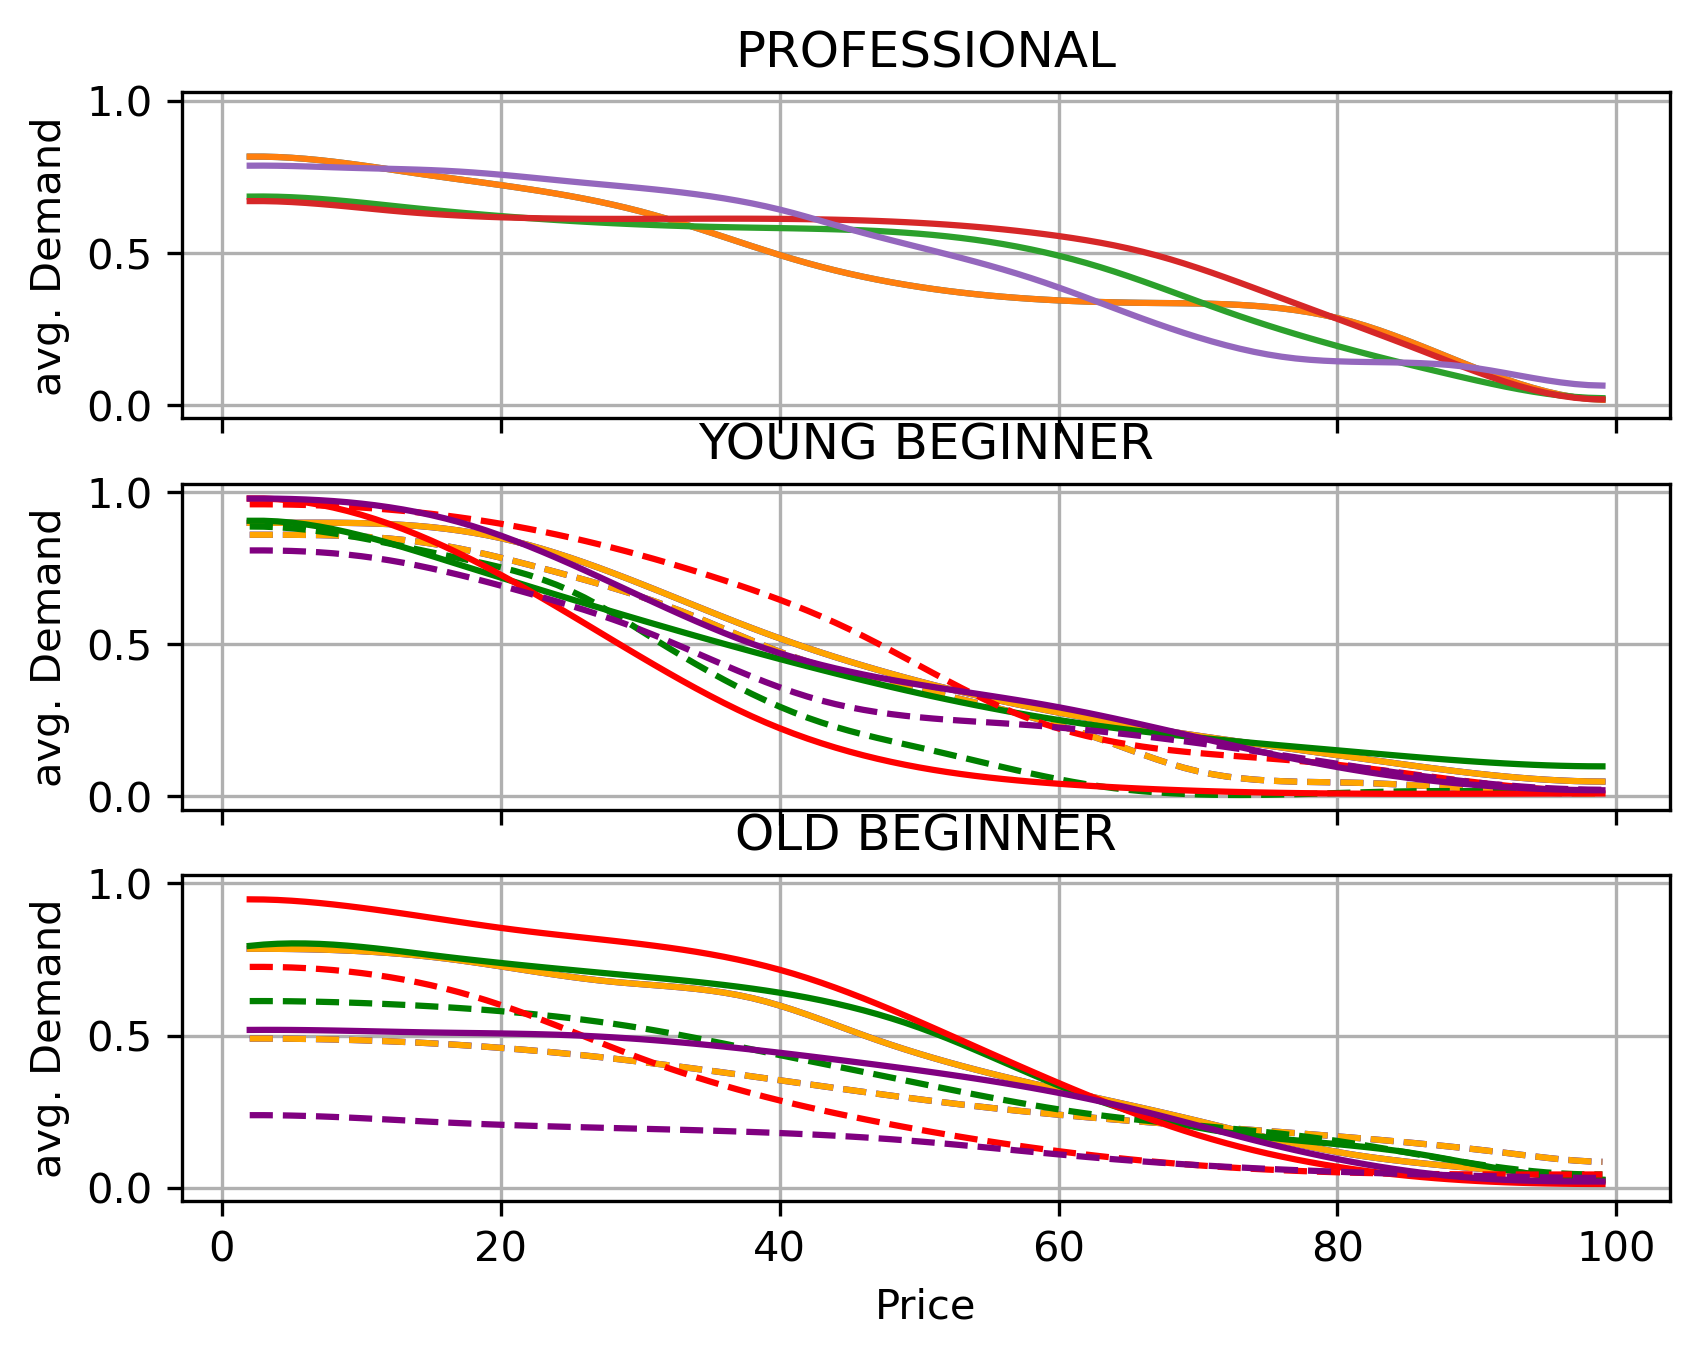
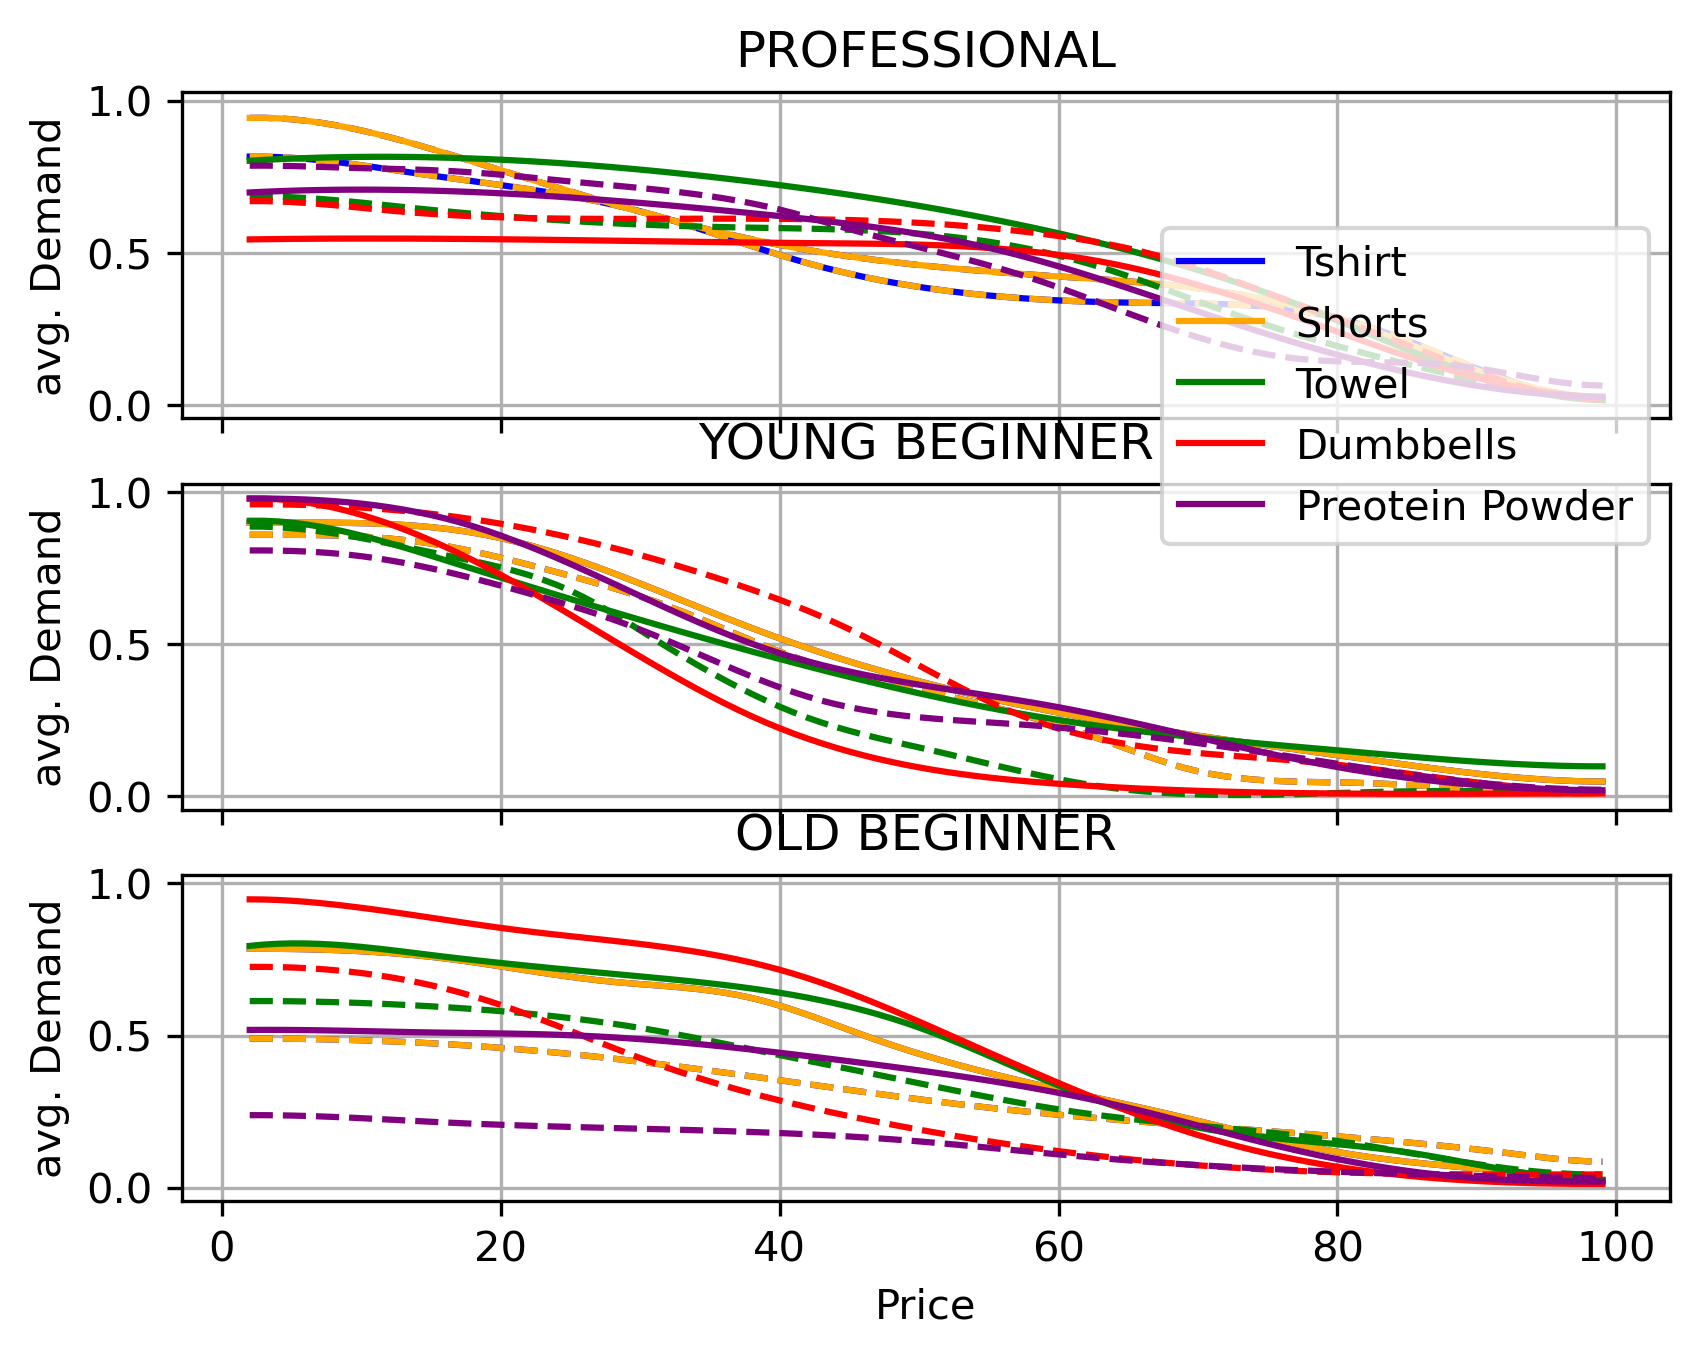
Added remaining demand curves

Changed region(s): [[0.1247, 0.0619, 0.9665, 0.4024], [0.9353, 0.1548, 0.9665, 0.2167]]

diff --git a/1 - Learning for Dynamic Pricing/DemandCurves/AbruptCurves/FunctionPlotter.py b/1 - Learning for Dynamic Pricing/DemandCurves/AbruptCurves/FunctionPlotter.py
@@ -2,6 +2,7 @@
 This is a script that plots the demand curves of the three user classes for all four poducts.
 """
 
+from turtle import color
 import matplotlib.pyplot as plt
 import numpy as np
 import sys
@@ -214,11 +215,23 @@ axs[1].set_ylabel('avg. Demand')
 axs[1].grid(True)
 plt.xlabel('Price')
 
-#PRO
+####################
+#               PRO                  #
+####################
 data = np.load('./AC_PROFESSIONAL_0.npy')
 x = data[:, 0]
 y = data[:, 1]
-axs[0].plot(x, y,  label='Tshirt')
+axs[0].plot(x, y, color='blue')
+#axs[0].legend(loc='center left', bbox_to_anchor=(1, 2.5))
+axs[0].set_title('PROFESSIONAL')
+axs[0].set_ylabel('avg. Demand')
+axs[0].grid(True)
+plt.xlabel('Price')
+
+data = np.load('./PROFESSIONAL_0.npy')
+x = data[:, 0]
+y = data[:, 1]
+axs[0].plot(x, y, linestyle='--', color='blue', label='Tshirt')
 #axs[0].legend(loc='center left', bbox_to_anchor=(1, 2.5))
 axs[0].set_title('PROFESSIONAL')
 axs[0].set_ylabel('avg. Demand')
@@ -229,7 +242,17 @@ plt.xlabel('Price')
 data = np.load('./AC_PROFESSIONAL_1.npy')
 x = data[:, 0]
 y = data[:, 1]
-axs[0].plot(x, y, label='Shorts')
+axs[0].plot(x, y, linestyle='--', color='orange')
+#axs[0].legend(loc='center left', bbox_to_anchor=(1, 2.5))
+axs[0].set_title('PROFESSIONAL')
+axs[0].set_ylabel('avg. Demand')
+axs[0].grid(True)
+plt.xlabel('Price')
+
+data = np.load('./PROFESSIONAL_1.npy')
+x = data[:, 0]
+y = data[:, 1]
+axs[0].plot(x, y, color = 'orange', label='Shorts')
 #axs[0].legend(loc='center left', bbox_to_anchor=(1, 2.5))
 axs[0].set_title('PROFESSIONAL')
 axs[0].set_ylabel('avg. Demand')
@@ -239,7 +262,17 @@ plt.xlabel('Price')
 data = np.load('./AC_PROFESSIONAL_2.npy')
 x = data[:, 0]
 y = data[:, 1]
-axs[0].plot(x, y, label='Twoel')
+axs[0].plot(x, y, linestyle='--', color='green')
+#axs[0].legend(loc='center left', bbox_to_anchor=(1, 2.5))
+axs[0].set_title('PROFESSIONAL')
+axs[0].set_ylabel('avg. Demand')
+axs[0].grid(True)
+plt.xlabel('Price')
+
+data = np.load('./PROFESSIONAL_2.npy')
+x = data[:, 0]
+y = data[:, 1]
+axs[0].plot(x, y, color = 'green', label='Twoel')
 #axs[0].legend(loc='center left', bbox_to_anchor=(1, 2.5))
 axs[0].set_title('PROFESSIONAL')
 axs[0].set_ylabel('avg. Demand')
@@ -249,17 +282,38 @@ plt.xlabel('Price')
 data = np.load('./AC_PROFESSIONAL_3.npy')
 x = data[:, 0]
 y = data[:, 1]
-axs[0].plot(x, y, label='Dumbbells')
+axs[0].plot(x, y, linestyle='--', color='red')
 #axs[0].legend(loc='center left', bbox_to_anchor=(1, 2.5))
 axs[0].set_title('PROFESSIONAL')
 axs[0].set_ylabel('avg. Demand')
 axs[0].grid(True)
 plt.xlabel('Price')
 
+data = np.load('./PROFESSIONAL_3.npy')
+x = data[:, 0]
+y = data[:, 1]
+axs[0].plot(x, y, color='red', label='Dumbbells')
+#axs[0].legend(loc='center left', bbox_to_anchor=(1, 2.5))
+axs[0].set_title('PROFESSIONAL')
+axs[0].set_ylabel('avg. Demand')
+axs[0].grid(True)
+plt.xlabel('Price')
+
+
 data = np.load('./AC_PROFESSIONAL_4.npy')
 x = data[:, 0]
 y = data[:, 1]
-axs[0].plot(x, y, label='Preotein Powder')
+axs[0].plot(x, y, linestyle='--', color='purple')
+#axs[0].legend(loc='center left', bbox_to_anchor=(1, 2.5))
+axs[0].set_title('PROFESSIONAL')
+axs[0].set_ylabel('avg. Demand')
+axs[0].grid(True)
+plt.xlabel('Price') 
+
+data = np.load('./PROFESSIONAL_4.npy')
+x = data[:, 0]
+y = data[:, 1]
+axs[0].plot(x, y, color='purple', label='Preotein Powder')
 #axs[0].legend(loc='center left', bbox_to_anchor=(1, 2.5))
 axs[0].set_title('PROFESSIONAL')
 axs[0].set_ylabel('avg. Demand')
@@ -269,6 +323,6 @@ plt.xlabel('Price')
 
 #SHOW AND SAVE
 #Plot legend ounder the plot
-#plt.legend(loc='right', bbox_to_anchor=(1, 2.5))
+plt.legend(loc='right', bbox_to_anchor=(1, 2.5))
 plt.savefig('DemandCurves.png', bbox_inches="tight", dpi=300)
 plt.show()
